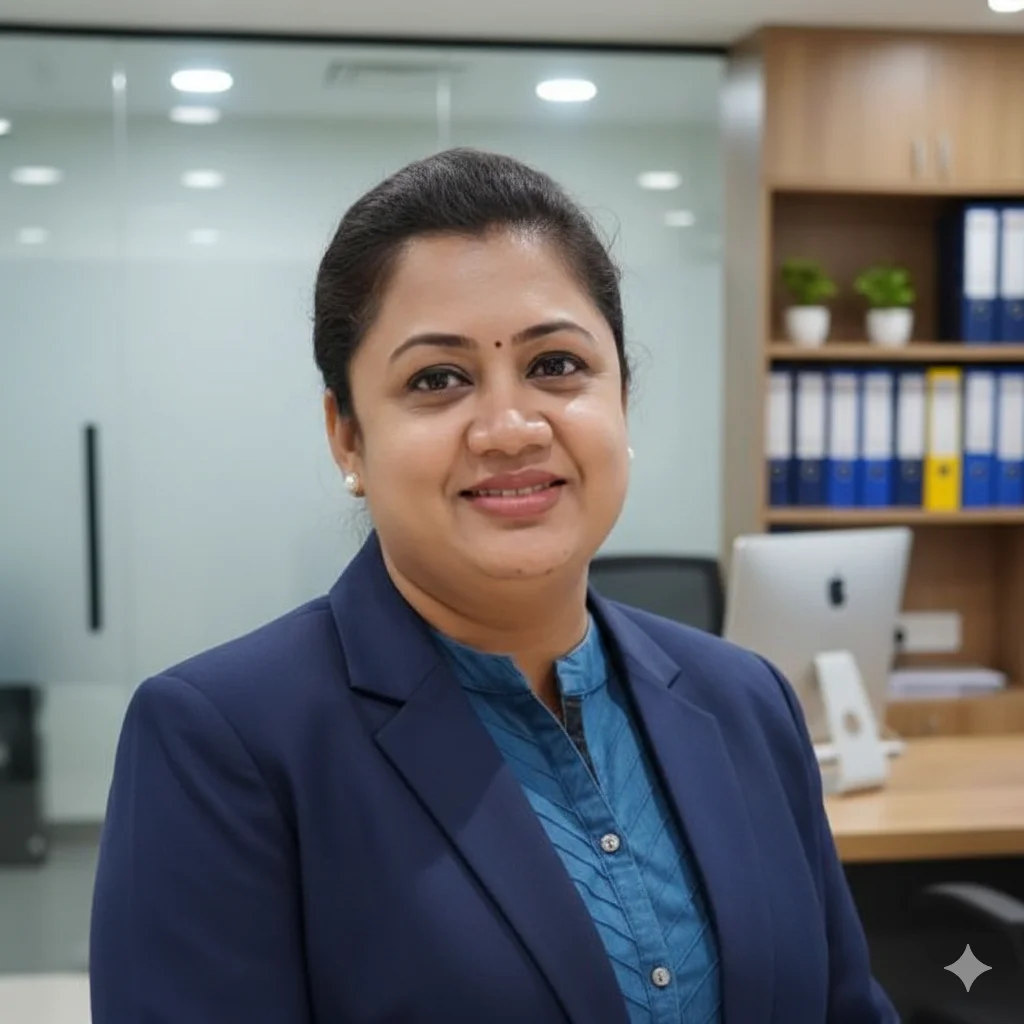
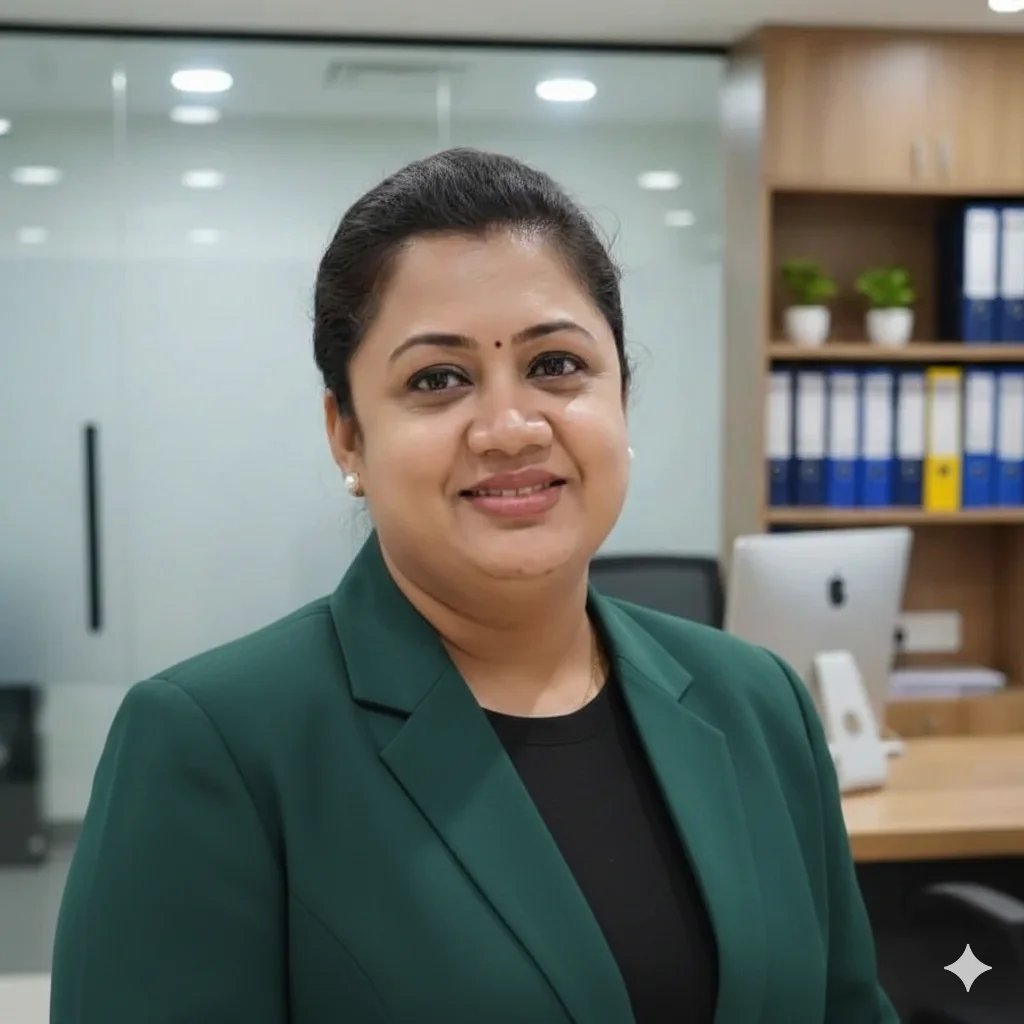
Update founder image and contact email

diff --git a/src/pages/Contact.tsx b/src/pages/Contact.tsx
@@ -20,8 +20,8 @@ const contactInfo = [
   {
     icon: Mail,
     title: "Email",
-    details: "jyothi.m@reveratechnexus.com",
-    action: "mailto:jyothi.m@reveratechnexus.com",
+    details: "Info@reveratechnexus.com",
+    action: "mailto:Info@reveratechnexus.com",
   },
   {
     icon: MapPin,
